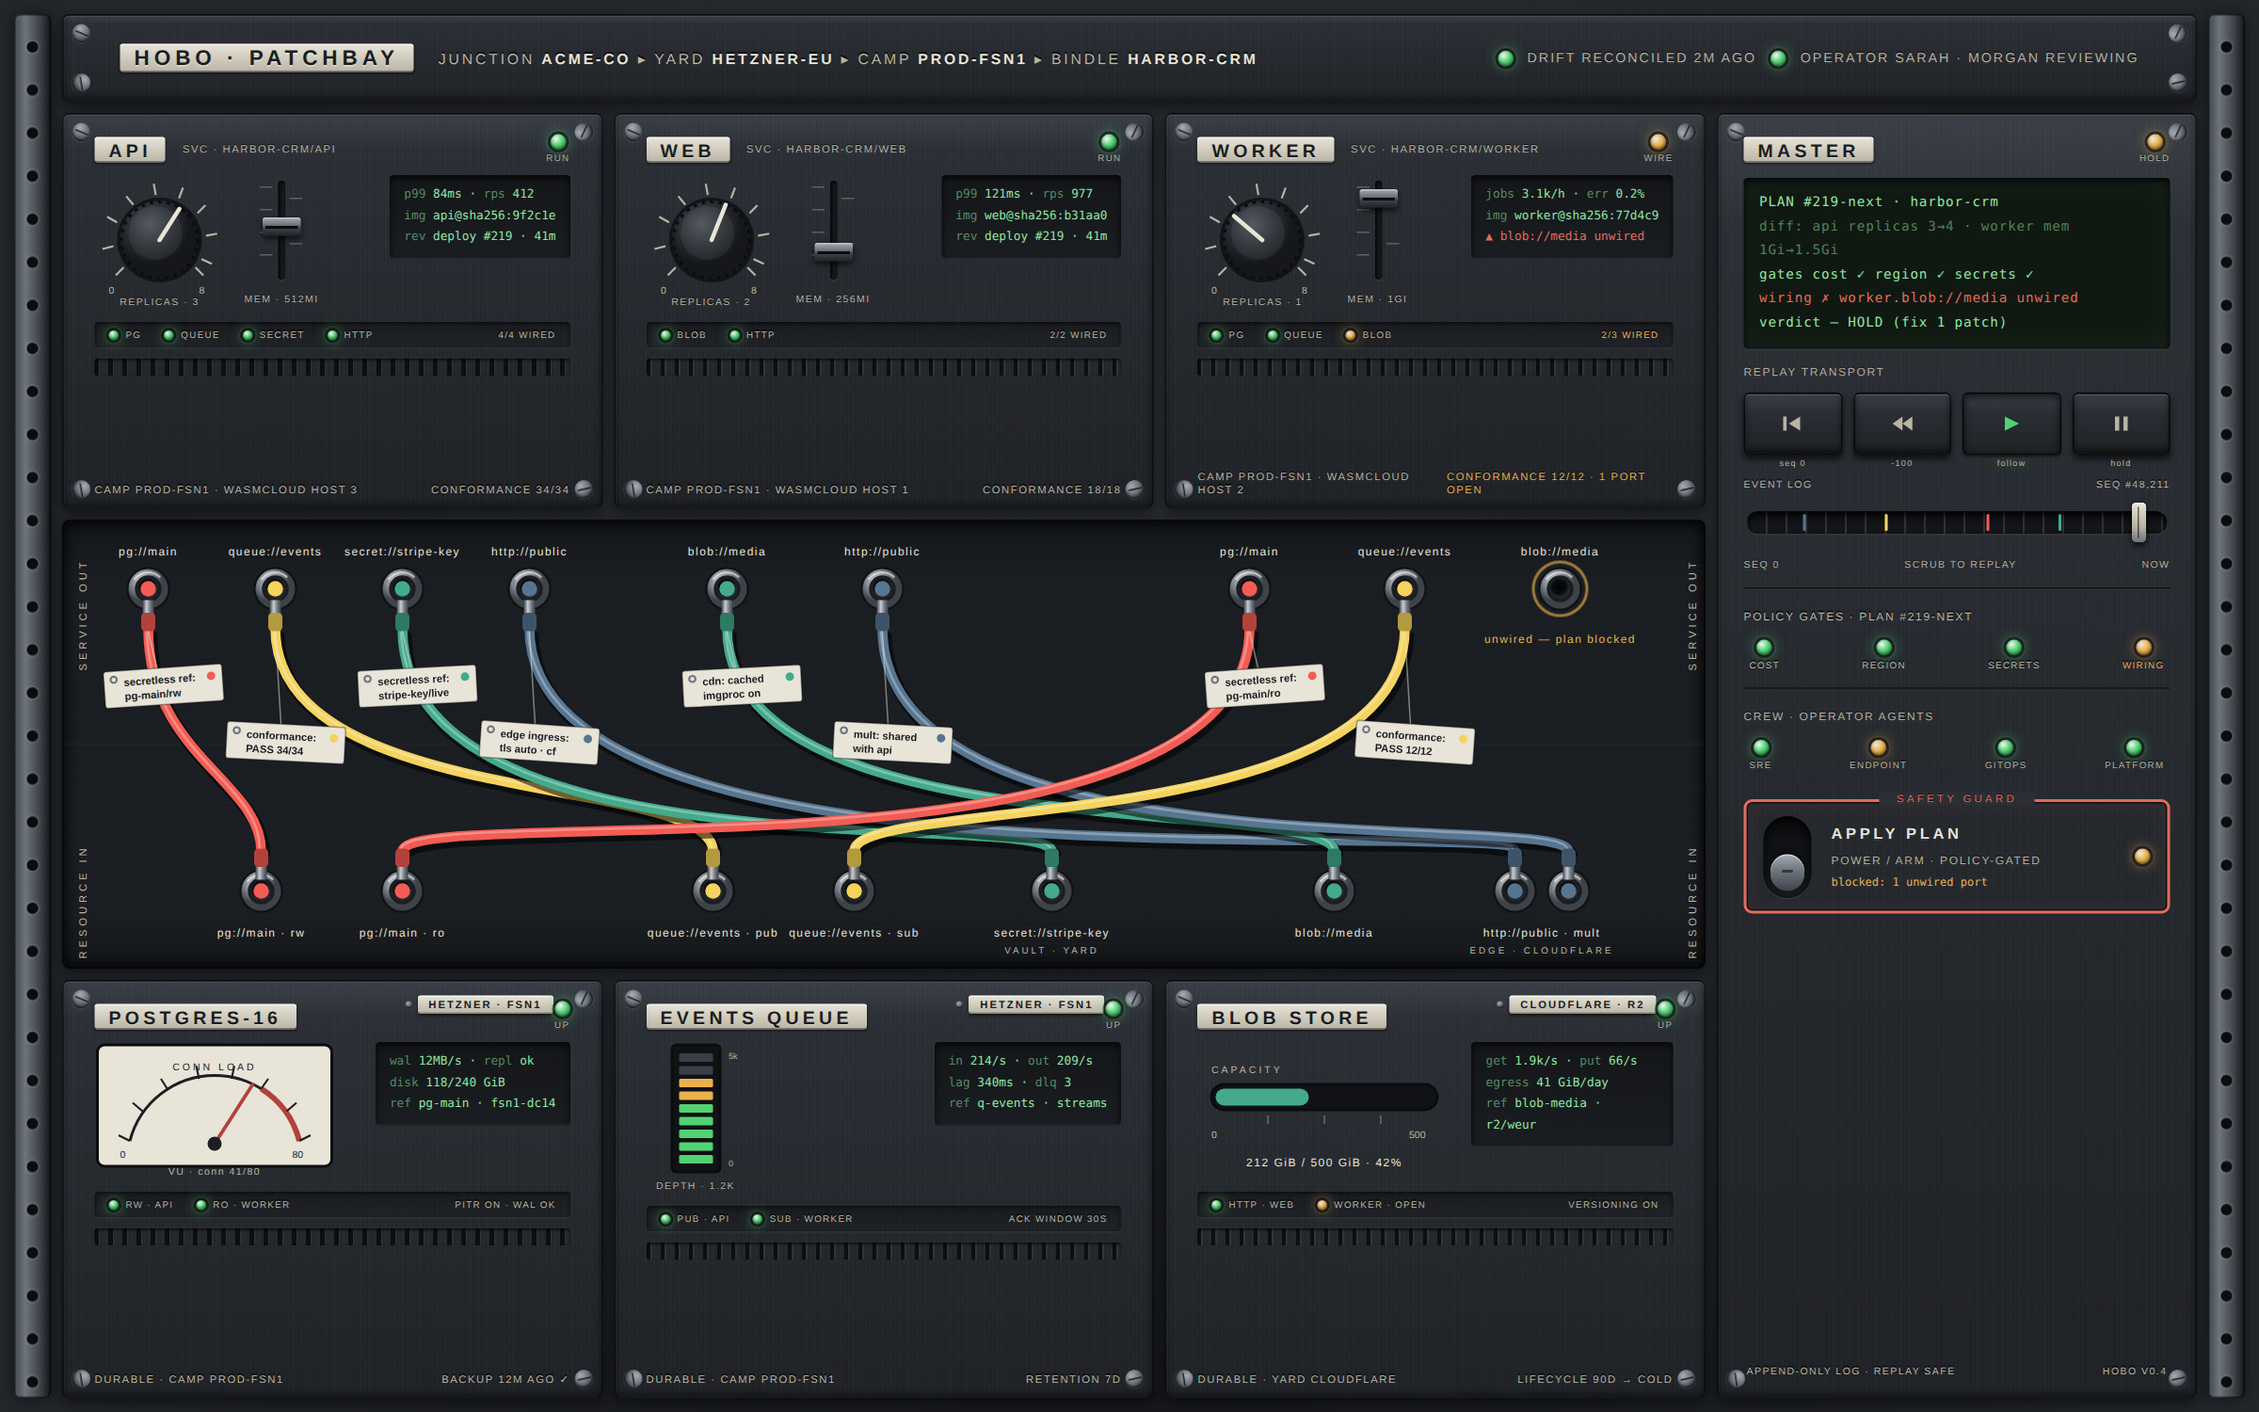
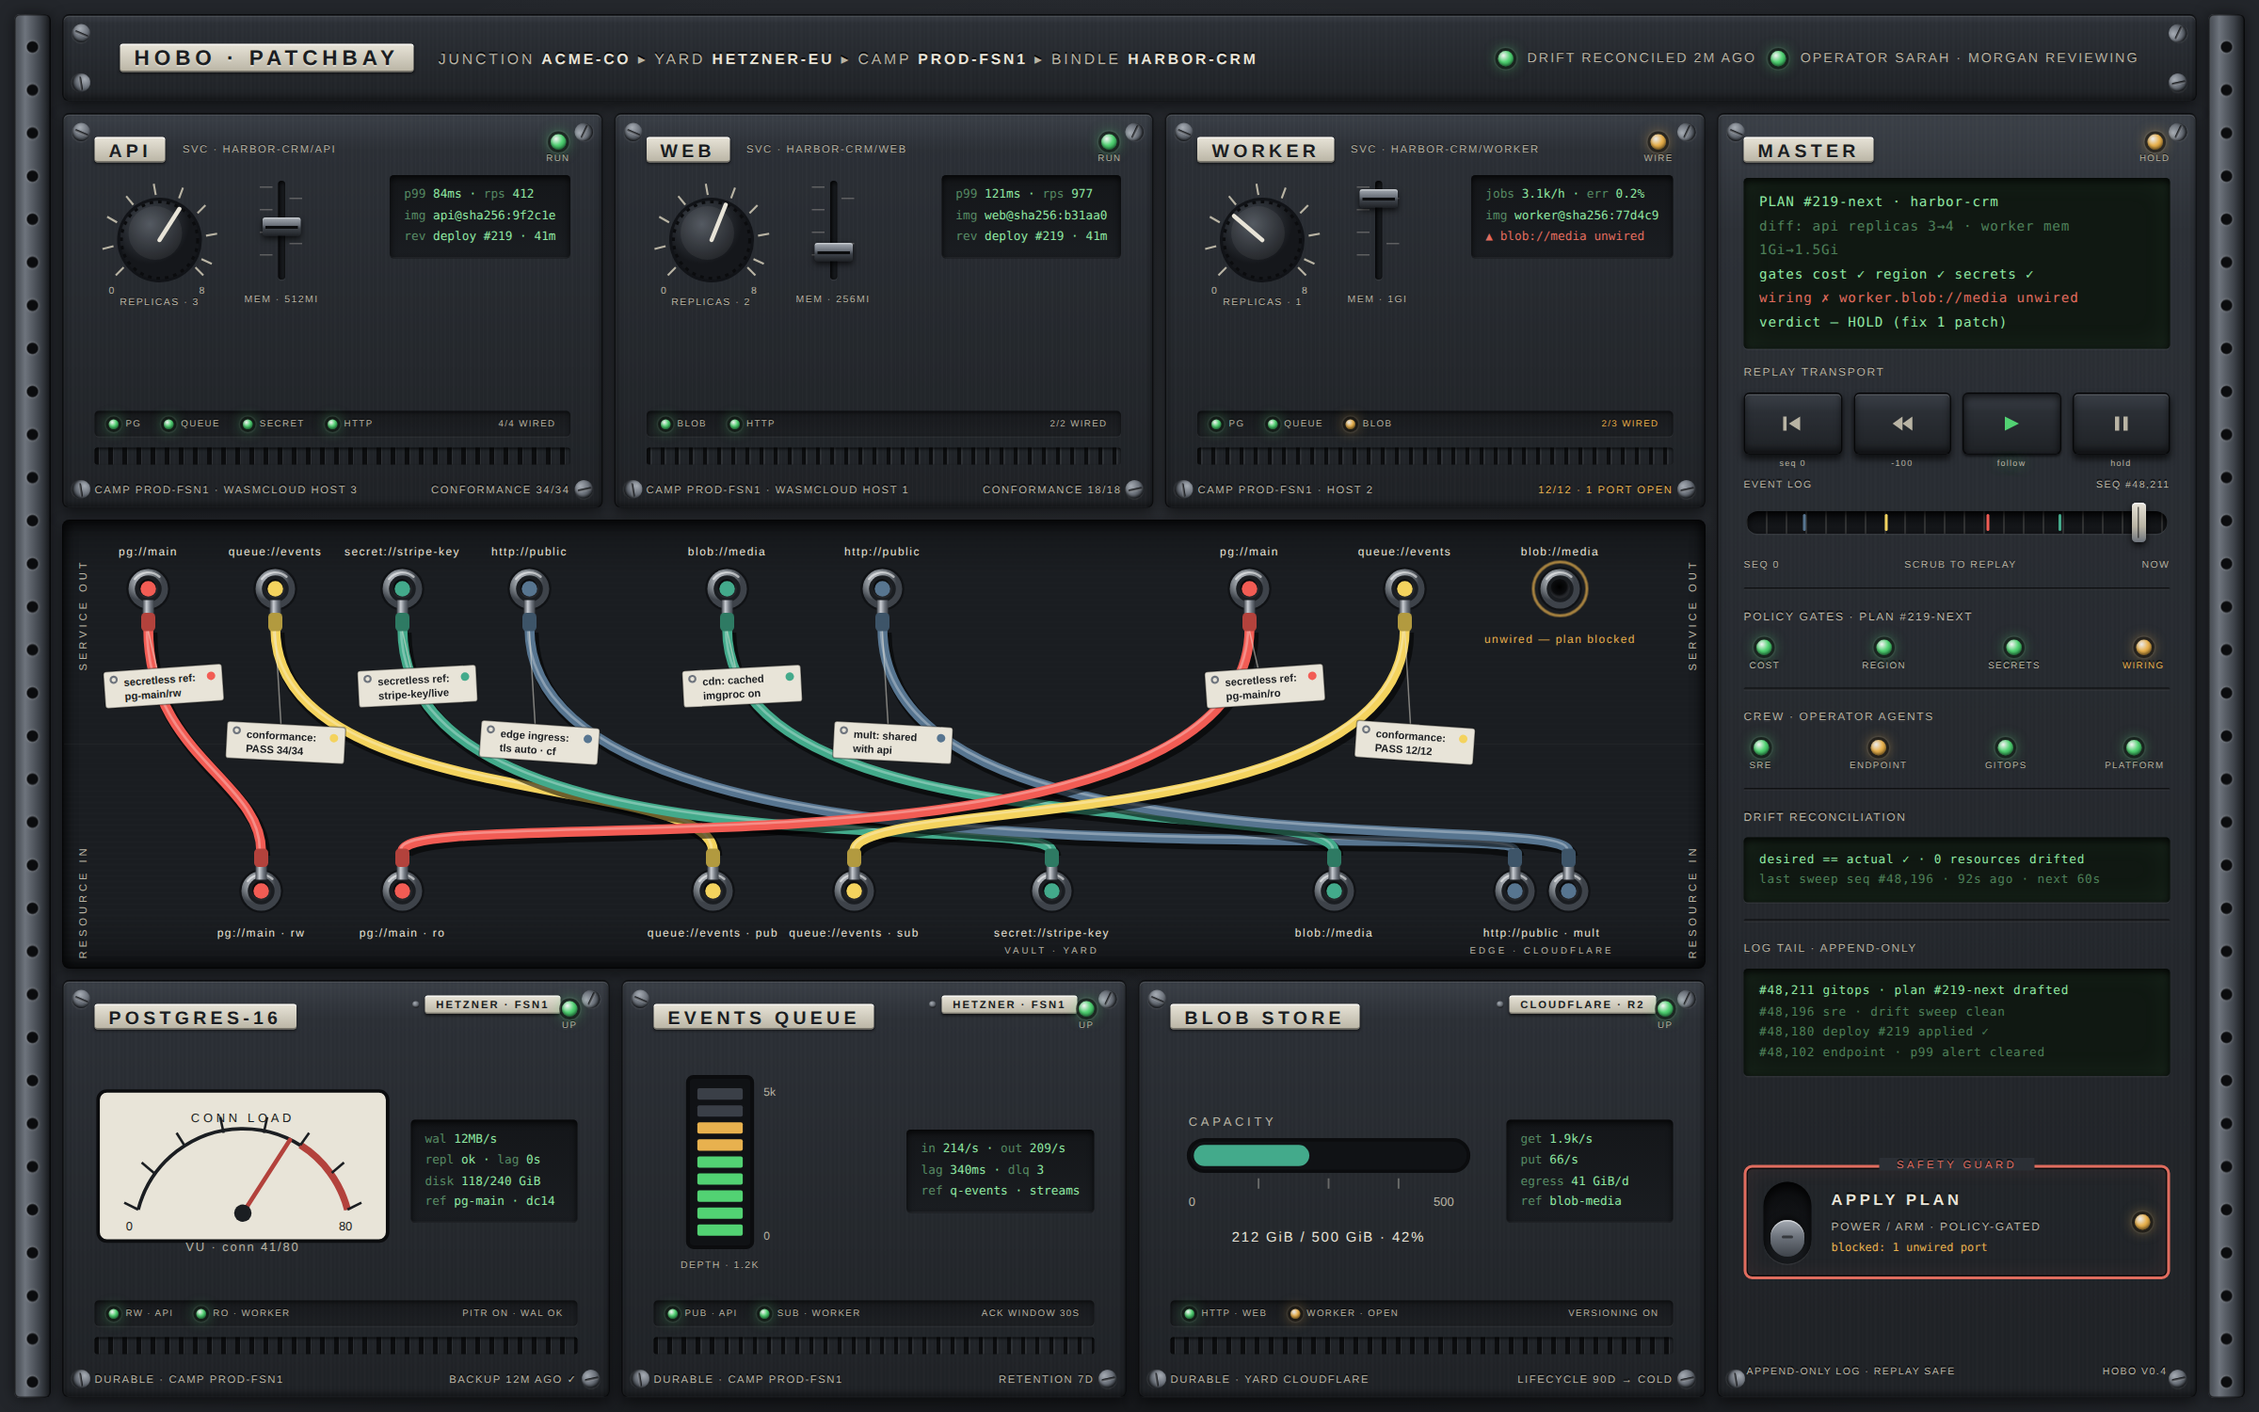
docs(design): add patchbay loop record and hardened evidence
Claude-Session: https://claude.ai/code/session_01193JfQgH8myHQ6ySCdWLrD

diff --git a/docs/design/explorations/control-plane-ux/10-patchbay/mockup.html b/docs/design/explorations/control-plane-ux/10-patchbay/mockup.html
@@ -117,7 +117,9 @@ header .right{margin-left:auto;display:flex;align-items:center;gap:10px;font-siz
 /* ---------- top service row ---------- */
 .row-svc{grid-column:2;grid-row:2;display:flex;gap:8px}
 .row-res{grid-column:2;grid-row:4;display:flex;gap:8px}
-.row-svc .module,.row-res .module{flex:1;padding:12px 16px 10px}
+.row-svc .module,.row-res .module{flex:1;padding:12px 16px 30px;display:flex;flex-direction:column}
+.row-svc .ports,.row-res .ports{margin-top:auto}
+.row-res .controls{flex:1;align-items:center}
 .mod-head{display:flex;align-items:center;gap:12px;margin:2px 6px 0 6px}
 .mod-head .plate{font-size:13px}
 .mod-head .ledlbl{display:flex;flex-direction:column;align-items:center;gap:3px;margin-left:auto}
@@ -445,7 +447,7 @@ header .right{margin-left:auto;display:flex;align-items:center;gap:10px;font-siz
         <span class="cap3 eng" style="color:var(--amber)">2/3 wired</span>
       </div>
       <div class="vents"></div>
-      <div class="mod-foot eng dim"><span>camp prod-fsn1 · wasmcloud host 2</span><span style="color:var(--amber)">conformance 12/12 · 1 port open</span></div>
+      <div class="mod-foot eng dim"><span>camp prod-fsn1 · host 2</span><span style="color:var(--amber)">12/12 · 1 port open</span></div>
     </section>
   </div>
 
@@ -667,7 +669,7 @@ header .right{margin-left:auto;display:flex;align-items:center;gap:10px;font-siz
       </div>
       <div class="controls">
         <div class="ctl">
-          <svg width="170" height="96" viewBox="0 0 170 96">
+          <svg width="210" height="119" viewBox="0 0 170 96">
             <rect x="2" y="2" width="166" height="86" rx="5" fill="#E8E4D8"/>
             <rect x="2" y="2" width="166" height="86" rx="5" fill="none" stroke="#0B0C0E" stroke-width="2"/>
             <path d="M25 70 A 62 62 0 0 1 145 70" fill="none" stroke="#1B1E22" stroke-width="2"/>
@@ -687,9 +689,10 @@ header .right{margin-left:auto;display:flex;align-items:center;gap:10px;font-siz
           </svg>
         </div>
         <div class="readout mono">
-          <div><span class="k">wal</span> 12MB/s · <span class="k">repl</span> ok</div>
+          <div><span class="k">wal</span> 12MB/s</div>
+          <div><span class="k">repl</span> ok · <span class="k">lag</span> 0s</div>
           <div><span class="k">disk</span> 118/240 GiB</div>
-          <div><span class="k">ref</span> pg-main · fsn1-dc14</div>
+          <div><span class="k">ref</span> pg-main · dc14</div>
         </div>
       </div>
       <div class="ports">
@@ -711,7 +714,7 @@ header .right{margin-left:auto;display:flex;align-items:center;gap:10px;font-siz
       </div>
       <div class="controls">
         <div class="ctl">
-          <svg width="70" height="100" viewBox="0 0 70 100">
+          <svg width="94" height="134" viewBox="0 0 70 100">
             <rect x="18" y="2" width="34" height="90" rx="3" fill="#101215" stroke="#0B0C0E" stroke-width="2"/>
             <g>
               <rect x="23" y="8"  width="24" height="6" rx="1" fill="#3A3F47"/>
@@ -754,7 +757,7 @@ header .right{margin-left:auto;display:flex;align-items:center;gap:10px;font-siz
       </div>
       <div class="controls">
         <div class="ctl">
-          <svg width="180" height="96" viewBox="0 0 180 96">
+          <svg width="224" height="119" viewBox="0 0 180 96">
             <text x="10" y="22" fill="#B9B4A4" font-size="7" letter-spacing="2">CAPACITY</text>
             <rect x="10" y="30" width="160" height="18" rx="9" fill="#101215" stroke="#0B0C0E" stroke-width="2"/>
             <rect x="13" y="33" width="66" height="12" rx="6" fill="#43AA8B"/>
@@ -768,9 +771,10 @@ header .right{margin-left:auto;display:flex;align-items:center;gap:10px;font-siz
           </svg>
         </div>
         <div class="readout mono">
-          <div><span class="k">get</span> 1.9k/s · <span class="k">put</span> 66/s</div>
-          <div><span class="k">egress</span> 41 GiB/day</div>
-          <div><span class="k">ref</span> blob-media · r2/weur</div>
+          <div><span class="k">get</span> 1.9k/s</div>
+          <div><span class="k">put</span> 66/s</div>
+          <div><span class="k">egress</span> 41 GiB/d</div>
+          <div><span class="k">ref</span> blob-media</div>
         </div>
       </div>
       <div class="ports">
@@ -836,7 +840,23 @@ header .right{margin-left:auto;display:flex;align-items:center;gap:10px;font-siz
       <div class="c"><span class="led g"></span><span class="eng dim">PLATFORM</span></div>
     </div>
 
-    <div class="armbox">
+    <div class="hr"></div>
+    <div class="eng sect dim">drift reconciliation</div>
+    <div class="lcd mono" style="font-size:8.5px;line-height:1.7">
+      <div>desired == actual ✓ · 0 resources drifted</div>
+      <div class="dimtx">last sweep seq #48,196 · 92s ago · next 60s</div>
+    </div>
+
+    <div class="hr"></div>
+    <div class="eng sect dim">log tail · append-only</div>
+    <div class="lcd mono" style="font-size:8.5px;line-height:1.7">
+      <div>#48,211 gitops · plan #219-next drafted</div>
+      <div class="dimtx">#48,196 sre · drift sweep clean</div>
+      <div class="dimtx">#48,180 deploy #219 applied ✓</div>
+      <div class="dimtx">#48,102 endpoint · p99 alert cleared</div>
+    </div>
+
+    <div class="armbox" style="margin-top:auto">
       <div class="cornlbl eng" style="background:var(--panel);width:110px;margin:0 auto">safety guard</div>
       <div class="toggle"><div class="lever"></div></div>
       <div class="armtx">

diff --git a/docs/design/explorations/control-plane-ux/10-patchbay/README.md b/docs/design/explorations/control-plane-ux/10-patchbay/README.md
@@ -1,0 +1,93 @@
+# 10 · Patchbay — hardware you can touch
+
+**Thesis:** wiring resources should feel like patching a modular synth: physical, legible, reversible. This loop renders HoBo's resource-wiring editor (the authoring surface for a Bindle's service↔resource bindings) as a 19" hardware rack. Every binding in `harbor-crm` is a patch cable you could grab; every risky action sits behind a guard you must flip.
+
+## Philosophy
+
+Cloud consoles hide wiring inside YAML and dropdowns; the cost is that nobody can *see* the topology, and nobody trusts their hands. A patchbay inverts that. A cable either connects two jacks or it does not — there is no half-wired state you can't see. Pulling a cable is exactly as visible as inserting one, which is what makes it reversible: the append-only event log is the tape reel, and the REPLAY transport scrubs it. The unwired jack is the design's moral center: an amber pulsing socket that says "unwired — plan blocked", and the master ARM switch physically refuses until it's patched. Policy gates aren't a modal dialog; they're LEDs on the master strip. HoBo's plan → policy gates → deploy pipeline becomes muscle memory: patch, check the gate LEDs, flip the guard, arm.
+
+## Design principles
+
+1. **One binding = one cable.** Every service→resource edge is a single colored bezier with sag, a plug at both ends, and a hanging tag carrying its secretless ref or conformance result. Nothing connects invisibly.
+2. **State is emitted light, not text.** Green LED = running/wired, amber LED = attention/unwired, VU needle = live load. Text only annotates what the hardware already shows.
+3. **Dangerous actions have physical friction.** "Apply plan" is a power/arm toggle inside a red safety-guard outline; while a port is unwired the LCD verdict reads HOLD and the guard LED burns amber.
+4. **Everything replayable, everything replay-shaped.** The event log is a tape transport (⏮ ⏪ ▶ ⏸ caps + scrub ribbon at seq #48,211); drift reconciliation and log tail render on LCDs, because history is a first-class instrument.
+5. **Engrave, don't decorate.** All lettering is letter-spaced small caps at hardware sizes (6.5–13px), inset-shadowed like panel engraving; provider identity is a screwed-on badge plate, not a logo.
+
+## Design system
+
+### Palette
+
+| Token | Hex | Role |
+|---|---|---|
+| `--charcoal` | `#23262B` | room/case background |
+| `--panel` / `--panel-hi` / `--panel-lo` | `#2B2F35` / `#3A3F47` / `#1F2226` | brushed module faceplates (gradient stops) |
+| `--rail` / `--rail-lo` | `#1A1D21` / `#141619` | dark patch-field rail, recessed readouts |
+| `--cream` / `--cream-dim` | `#E8E4D8` / `#B9B4A4` | engraved labels, plates, tags (≥4.5:1 on charcoal) |
+| `--led-green` / `--led-green-dk` | `#52D273` / `#1C7A3D` | healthy/wired LEDs |
+| `--amber` / `--amber-dk` | `#E8B14E` / `#8A6420` | attention, unwired pulse, HOLD |
+| `--cable-red` | `#F25C54` | pg:// cables |
+| `--cable-yel` | `#F4D35E` | queue:// cables |
+| `--cable-teal` | `#43AA8B` | secret:// + blob:// cables |
+| `--cable-blue` | `#577590` | http:// cables |
+| `--metal-hi/md/lo` | `#A6ACB4` / `#6E747D` / `#3E434A` | screws, jack rings, fader caps, rack rails |
+| `--lcd` / `--lcd-bg` | `#8FE7A2` / `#101812` | phosphor LCD text/glass |
+| `--danger` | `#E06C5E` | safety-guard outline, wiring failure |
+
+### Type scale (instrument engraving)
+
+| Size | Use |
+|---|---|
+| 15px caps, .22em tracking | rack title plate |
+| 13px caps plate | module name plates (API, POSTGRES-16) |
+| 9.5–10.5px | breadcrumb, LCD plan readout (mono) |
+| 8–8.5px | jack labels, readout metrics (mono), cable tags |
+| 6.5–7.5px | port LEDs, tick captions, foot engravings |
+
+Two families total: `"Trebuchet MS", Verdana, Geneva, sans-serif` for engraving; `Consolas, Menlo, "DejaVu Sans Mono"` for LCD/refs.
+
+### Spacing / structure
+
+- 1600×1000 case = CSS grid: `26px rail · 1164px modules · 340px master · 26px rail`; rows `62 · 280 · 318 · 296`.
+- 8px rack gap between modules; 10px case padding; modules are flex columns so port-LED strips and vent grilles seat against the bottom edge.
+- Patch field is one 1164×318 inline SVG; jack pitch 90–110px, service row cy=48, resource row cy=262.
+
+### Components
+
+- **Module faceplate** — brushed gradient + 1px hairline stripes, 4 corner screws (radial-gradient, rotated slots), inset top highlight/bottom shadow.
+- **Knob** — SVG: tick arc (0–8), ridged rim (dashed stroke), radial-gradient cap, cream pointer; replicas per service.
+- **Fader** — recessed slot, metal cap with grip line, side tick marks; memory per service.
+- **1/4" jack** — nut ring (radial metal gradient), recessed hole, specular arc highlight; wired jacks get a colored plug tip + sleeve + boot.
+- **Patch cable** — 3 strokes per path (drop shadow, 7px body, offset highlight), cubic bezier with sag; hanging traffolyte tag near the source plug.
+- **Meters** — cream-faced VU with needle + red zone (Postgres conn 41/80), LED column (queue depth 1.2k/5k), capacity bar (blob 212/500 GiB).
+- **Master strip** — plan LCD, transport caps with SVG glyphs, scrub ribbon with event markers, policy-gate + crew LED banks, drift + log-tail LCDs, guarded ARM toggle.
+
+## Look & feel
+
+Photographed studio gear, not a dashboard: a charcoal rack under a soft top light (radial vignette), cream engraving, phosphor-green LCDs, and eight fat cables sagging across a near-black patch field. Depth comes exclusively from inset/outset shadows and gradient metals — deliberately skeuomorphic. The scene tells one story at a glance: harbor-crm is healthy (green LEDs, VU mid-scale), but WORKER's `blob://media` socket pulses amber and the whole apply chain — port LED, gate LED, LCD verdict, guard lamp — agrees: HOLD until Marcus patches one cable.
+
+## Ideation log — alternatives considered & rejected
+
+1. **Node-graph editor (React-Flow style boxes + orthogonal edges).** Rejected: it's the default idiom of every IaC visualizer; edges without sag/plugs read as abstract data flow, not touchable wiring, and it would violate the loop's anti-flat mandate.
+2. **Vertical Eurorack columns (one skinny module per service, cables running horizontally).** Rejected: harbor-crm's 3-service × 3-resource shape wastes a portrait format at 1600×1000; horizontal cable runs crossed the module labels and killed legibility of source→dest.
+3. **Cables drawn module-to-module directly (no patch field).** Rejected: cables crossing over faceplates obscured knobs/meters and made endpoints ambiguous; a dedicated dark rail (SERVICE OUT row above, RESOURCE IN row below) gives every cable a clean, readable start and end.
+4. **Literal telephone-exchange patchboard (uniform grid of 40 jacks, bay letters/numbers).** Rejected: authentic but hostile — port semantics (`pg://main · rw`) beat coordinates like "B-14"; a labeled protocol jack keeps Marcus oriented without a legend.
+5. **Emoji/system glyphs for transport buttons.** Rejected after v1 screenshot: they rendered as colored emoji and shattered the machined-metal illusion; replaced with drawn SVG caps.
+
+## Hardening notes (critique passes)
+
+- **Pass 1 → v2:** `SERVICE OUT` engraving collided with the first `pg://main` jack label — rotated rail engravings 90° onto both side cheeks. Transport glyphs rendered as emoji — redrawn as SVG icons in the button caps. Dead panel area in modules — added port-status LED strips (per-port wired state, worker BLOB amber "2/3 wired") and vent grilles. Master column gap — added policy-gates LED bank (COST/REGION/SECRETS green, WIRING amber). The two `http://public` mult jacks overlapped — re-spaced to a 38px-pitch mult pair.
+- **Pass 2 → v3:** modules converted to flex columns so ports/vents seat on the bottom rail edge (no floating dead band); WORKER foot text wrapped — shortened engraving; added drift-reconciliation LCD ("desired == actual ✓ · last sweep seq #48,196") and pushed the safety guard to the bottom of the master strip; enlarged all three resource meters.
+- **Pass 3 → final:** bigger meters squeezed the Postgres and Blob readout LCDs into mid-word wraps — restructured to one metric per line; vertically centered resource controls; added append-only log-tail LCD (seq #48,211…#48,102) to finish the master column. Lint: PASS (24 tokens, ≤8 loose hex, 0 external refs, ≤4 font stacks).
+
+## Distinctiveness check
+
+- **01 Terrain:** no cartography — space is a rack elevation, not a map; position encodes rack rows, not geography.
+- **02 Broadsheet:** zero editorial typography or columns — text is 7px panel engraving, never prose.
+- **03 Mission Control:** not a wall of telemetry consoles — a single authoring instrument where you *change* wiring, not just watch it.
+- **04 Quiet Garden:** deliberately dense, mechanical, and amber-alarmed rather than calm and ambient.
+- **05 Conversation:** no Crew dialogue surface at all — agents are four LEDs on a strip, not chat turns.
+- **06 Brutalist Terminal:** maximal material illusion (gradients, shadows, metal) — the exact opposite of text-file honesty.
+- **07 Organism:** nothing biological or self-arranging — rigid machined geometry, human-pulled cables.
+- **08 Metropolis:** flat front-facing 2D faceplates, no isometric projection or architectural metaphor.
+- **09 Timetable:** no Swiss grid of rows/columns — information hangs on cables and needles, and the only "schedule" is a tape-transport scrub ribbon.
